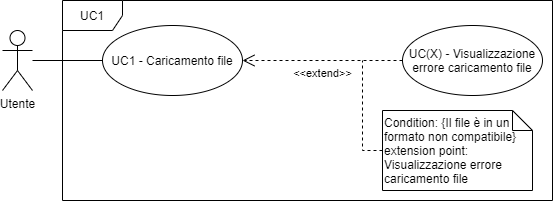
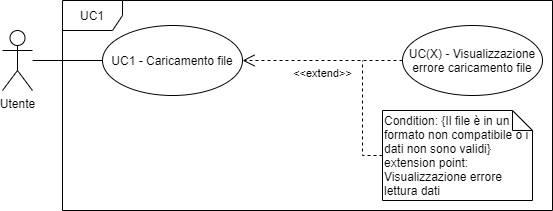
visual error casi uso

diff --git a/DocEsterna/AnalisiDeiRequisiti/Section/Subsection/UCX2.tex b/DocEsterna/AnalisiDeiRequisiti/Section/Subsection/UCX2.tex
@@ -1,0 +1,11 @@
+\subsubsection{UCX2 - Visualizzazione errore ripristino sessione}
+\begin{itemize}
+	\item \textbf{Attore primario}: Utente.
+	\item \textbf{Precondizioni}: L'utente fornisce un file errato o contenente dei dati non validi o non corretti.
+	\item \textbf{Postcondizioni}: L'utente visualizza un messaggio di errore e l'operazione fallisce.
+	\item \textbf{Scenario principale}:
+		\begin{enumerate}
+			\item L'utente visualizza un messaggio di errore esplicativo;
+			\item L'utente clicca "OK" per continuare.
+		\end{enumerate}
+\end{itemize}

diff --git a/DocEsterna/AnalisiDeiRequisiti/Section/Subsection/UCX3.tex b/DocEsterna/AnalisiDeiRequisiti/Section/Subsection/UCX3.tex
@@ -1,0 +1,11 @@
+\subsubsection{UCX - Visualizzazione errore caricamento file}
+\begin{itemize}
+	\item \textbf{Attore primario}: Utente.
+	\item \textbf{Precondizioni}: L'utente non seleziona alcun tipo di grafico da visualizzare o non carica alcun dato.
+	\item \textbf{Postcondizioni}: L'utente visualizza un messaggio di errore e l'operazione fallisce.
+	\item \textbf{Scenario principale}:
+		\begin{enumerate}
+			\item L'utente visualizza un messaggio di errore esplicativo;
+			\item L'utente clicca "OK" per continuare.
+		\end{enumerate}
+\end{itemize}

diff --git a/DocEsterna/AnalisiDeiRequisiti/Section/Subsection/UCX.tex b/DocEsterna/AnalisiDeiRequisiti/Section/Subsection/UCX.tex
@@ -1,0 +1,11 @@
+\subsubsection{UCX - Visualizzazione errore caricamento file}
+\begin{itemize}
+	\item \textbf{Attore primario}: Utente.
+	\item \textbf{Precondizioni}: L'utente fornisce un file errato o contenente dei dati non validi o non corretti.
+	\item \textbf{Postcondizioni}: L'utente visualizza un messaggio di errore e l'operazione fallisce.
+	\item \textbf{Scenario principale}:
+		\begin{enumerate}
+			\item L'utente visualizza un messaggio di errore esplicativo;
+			\item L'utente clicca "OK" per continuare.
+		\end{enumerate}
+\end{itemize}

diff --git a/DocEsterna/AnalisiDeiRequisiti/Section/Subsection/UC4.tex b/DocEsterna/AnalisiDeiRequisiti/Section/Subsection/UC4.tex
@@ -14,7 +14,7 @@
 		\end{enumerate}
 	\item \textbf{Estensioni}:
 	\begin{enumerate}[(a)]
-		\item Nel caso in cui non è stato selezionato alcun algoritmo:
+		\item Nel caso in cui non è stato selezionato alcun tipo di grafico o non è stato caricato alcun dato:
 		\begin{enumerate}[1.]
 			\item il grafico non viene visualizzato;
 			\item viene visualizzato un errore esplicativo [UCX3].

diff --git a/DocEsterna/AnalisiDeiRequisiti/Section/Subsection/UC1.tex b/DocEsterna/AnalisiDeiRequisiti/Section/Subsection/UC1.tex
@@ -16,7 +16,7 @@
 		\end{enumerate}
 	\item \textbf{Estensioni}:
 	\begin{enumerate}[(a)]
-		\item Nel caso in cui il file sia in un formato sbagliato:
+		\item Nel caso in cui il file sia in un formato sbagliato o i dati non sono validi:
 		\begin{enumerate}[1.]
 			\item i dati non vengono caricati nel sistema;
 			\item viene visualizzato un errore esplicativo [UCX].

diff --git a/DocEsterna/AnalisiDeiRequisiti/Section/Subsection/UC3.tex b/DocEsterna/AnalisiDeiRequisiti/Section/Subsection/UC3.tex
@@ -16,7 +16,7 @@
 		\end{enumerate}
 	\item \textbf{Estensioni}:
 	\begin{enumerate}[(a)]
-		\item Nel caso in cui il file abbia un formato sbagliato:
+		\item Nel caso in cui il file abbia un formato sbagliato o contiene dati non validi:
 		\begin{enumerate}[1.]
 			\item la sessione non viene ripristinata;
 			\item viene visualizzato un errore esplicativo [UCX2].

diff --git a/DocEsterna/AnalisiDeiRequisiti/Section/CasiUso.tex b/DocEsterna/AnalisiDeiRequisiti/Section/CasiUso.tex
@@ -27,3 +27,6 @@ Di seguito sono riportati tutti i casi d'uso che coinvolgono l'utente:
 \input{Section/Subsection/UC3.tex}
 \input{Section/Subsection/UC4.tex}
 \input{Section/Subsection/UC5.tex}
+\input{Section/Subsection/UCX.tex}
+\input{Section/Subsection/UCX2.tex}
+\input{Section/Subsection/UCX3.tex}
